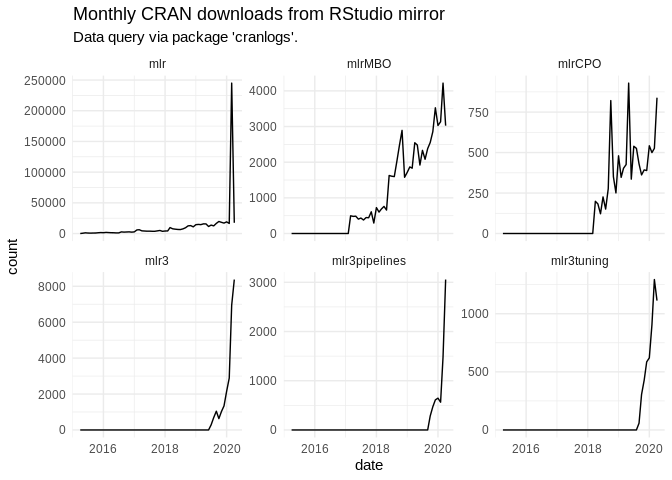
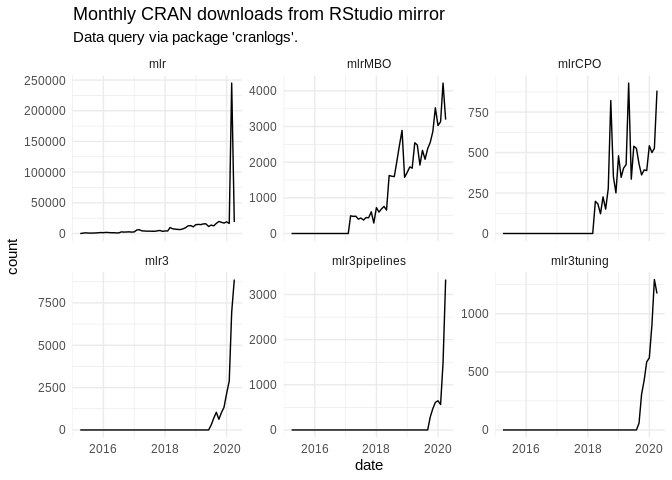
Deploy from Travis build 182 [ci skip]
Build URL: https://travis-ci.org/mlr-org/mlrcranlog/builds/681284066
Commit: dfc3b3d977b7f36a2f2b53558671e5c26bee41b8

diff --git a/README.md b/README.md
@@ -9,7 +9,7 @@
 
 Created on
 
-    ## [1] "2020-04-29"
+    ## [1] "2020-04-30"
 
 <details>
 
